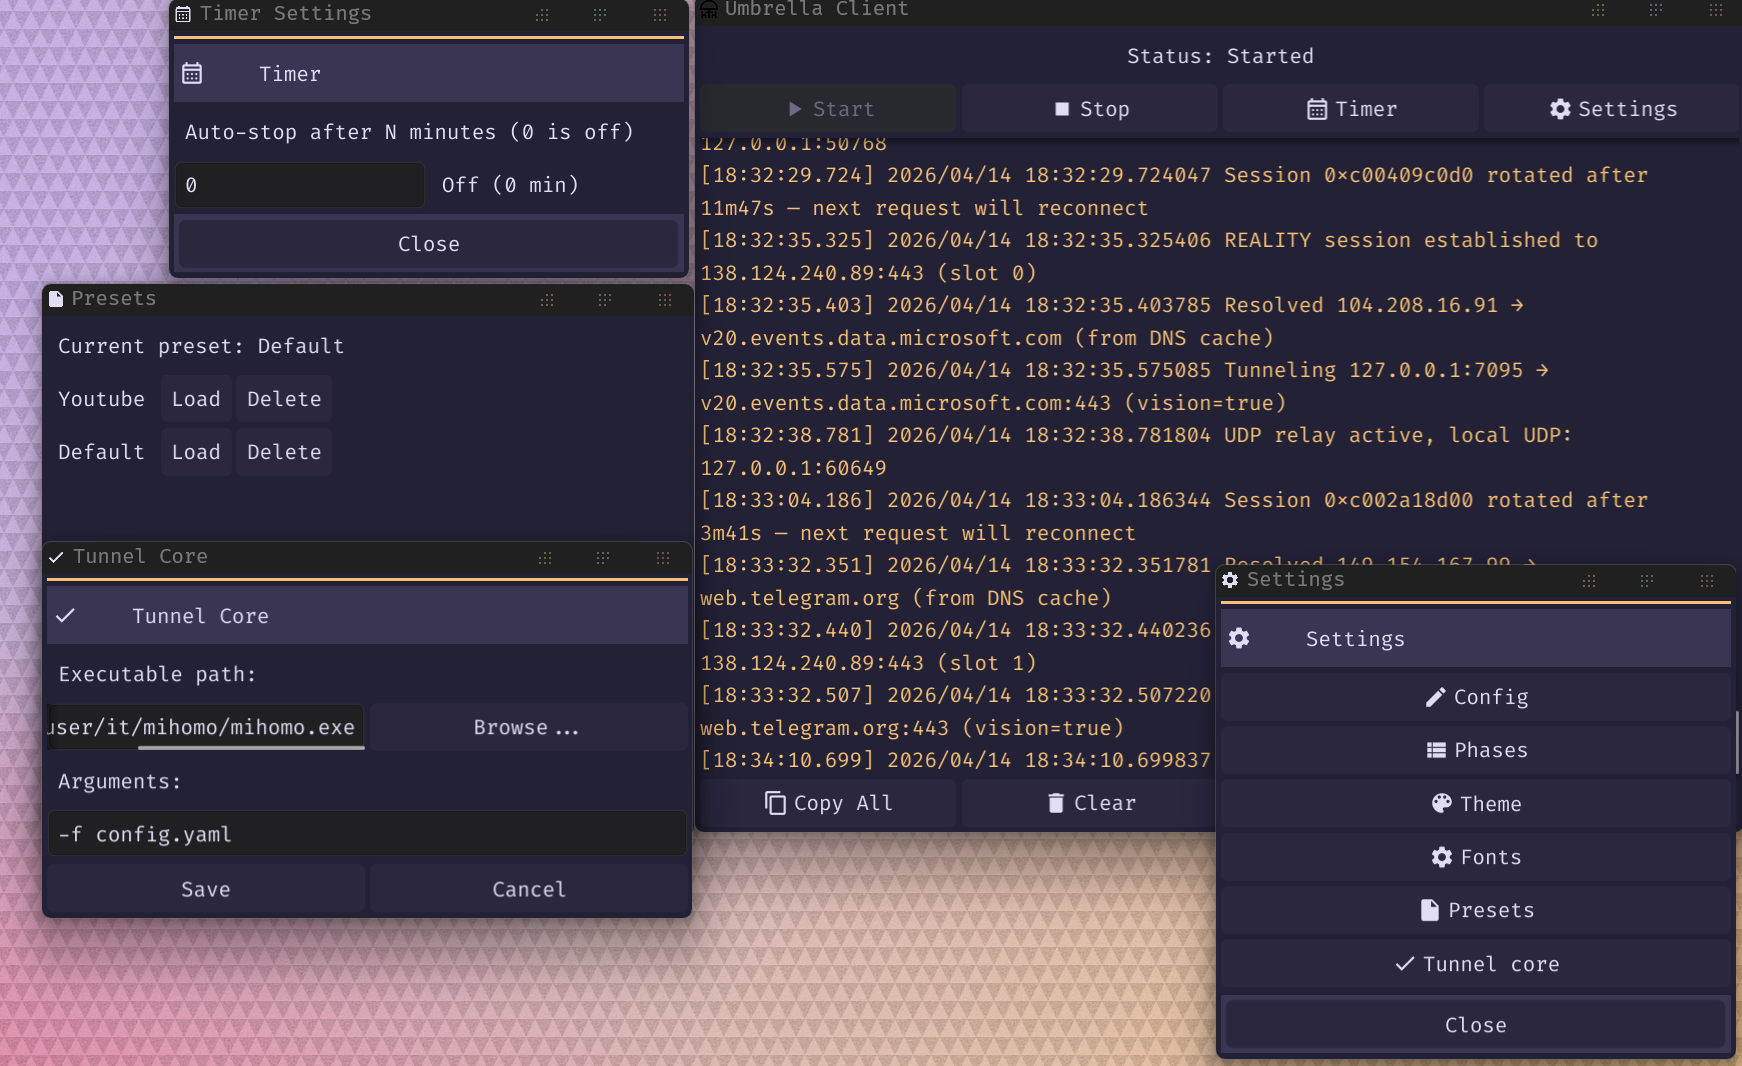
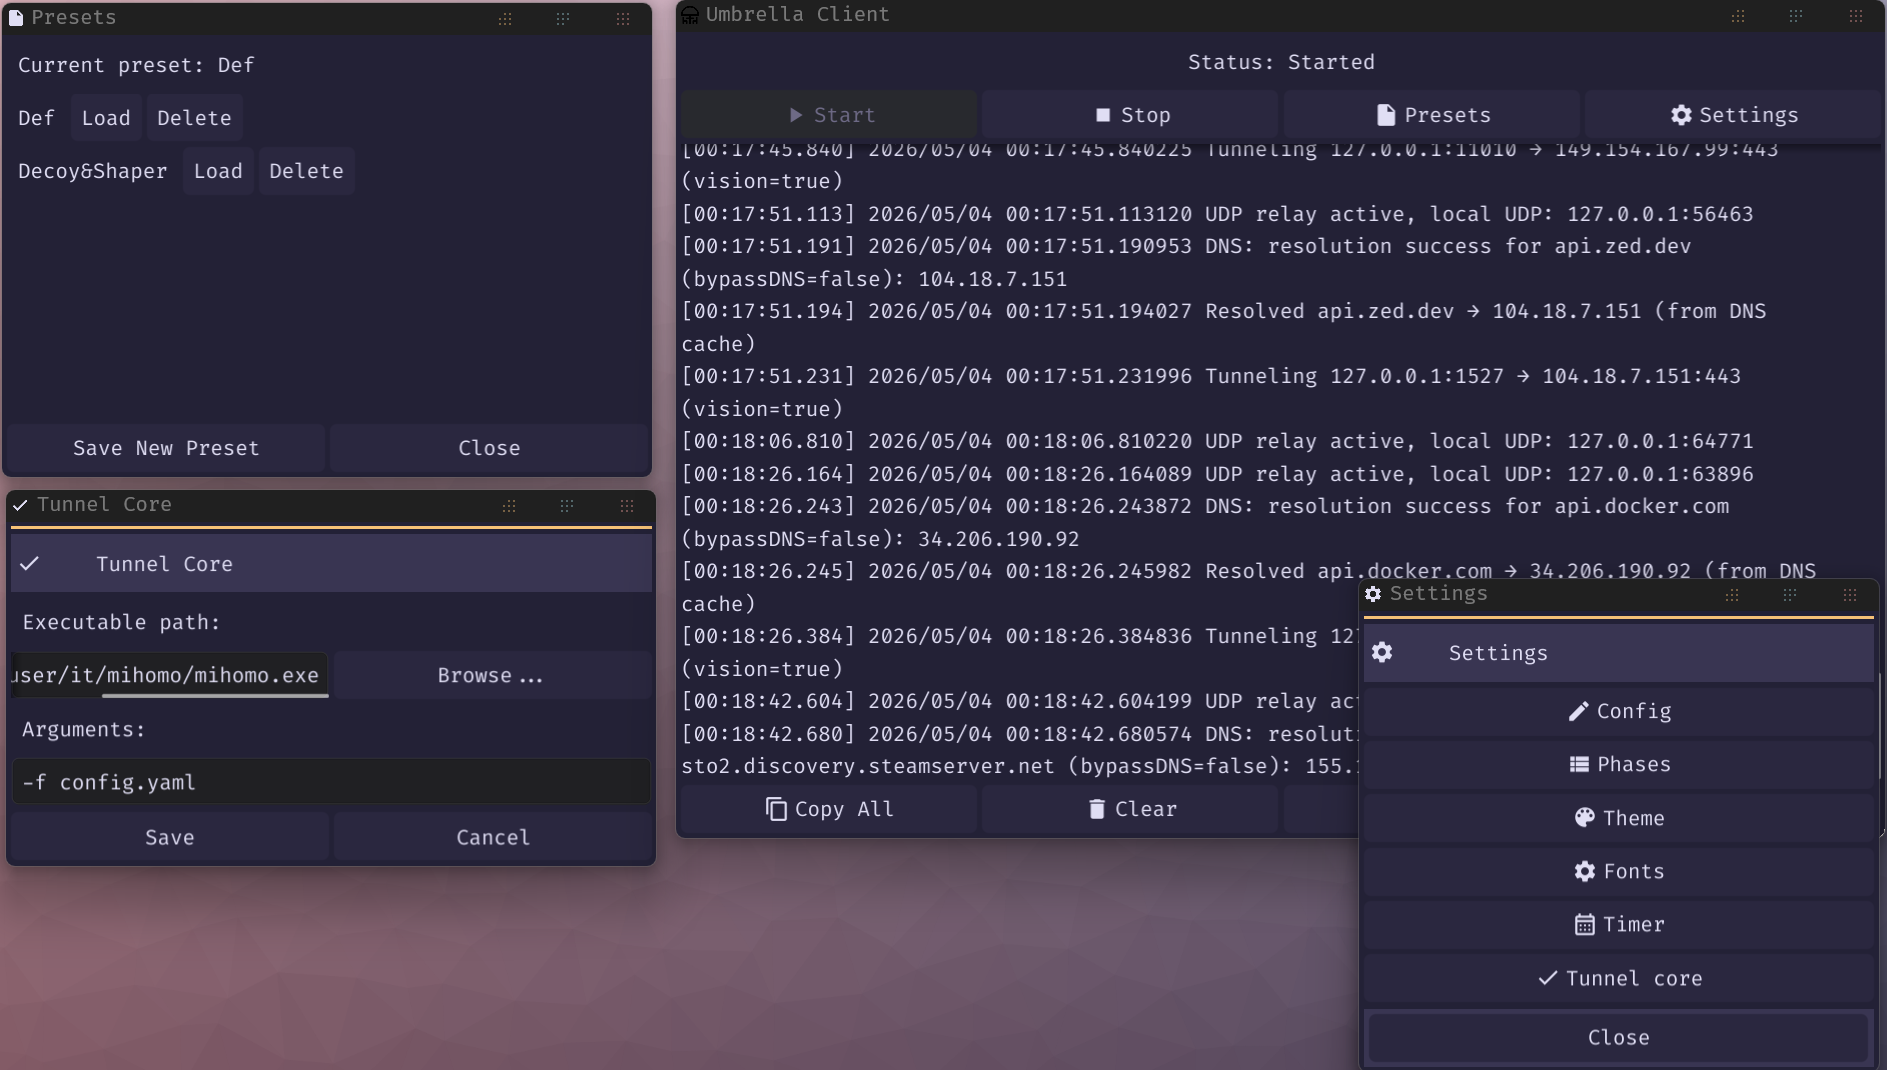
стили + таймаут: изменение стилей + уменьшение таймаута завершения работы

diff --git a/umbrella_client/internal/app/app.go b/umbrella_client/internal/app/app.go
@@ -301,8 +301,8 @@ func CreateAndRun() {
 
 				objs := []fyne.CanvasObject{}
 				for _, line := range lines {
-					col := ui.ColorToNRGBA(ui.CurrentTheme.Gold)
-					if strings.Contains(line, "[ERR]") || strings.Contains(line, "[ERR]") || strings.Contains(line, "[ERROR]") {
+					col := ui.ColorToNRGBA(ui.CurrentTheme.Text)
+					if strings.Contains(line, "[ERR]") || strings.Contains(line, "[ERROR]") {
 						col = ui.ColorToNRGBA(ui.CurrentTheme.Love)
 					}
 

diff --git a/umbrella_client/internal/client/main.go b/umbrella_client/internal/client/main.go
@@ -239,7 +239,7 @@ func Start(cfg *Config, ctx context.Context, appFilesDir string, dnsCache *stora
 			select {
 			case <-ch:
 				return nil
-			case <-time.After(10 * time.Second):
+			case <-time.After(5 * time.Second):
 				return nil
 			}
 		default:

diff --git a/umbrella_client/internal/ui/theme.go b/umbrella_client/internal/ui/theme.go
@@ -158,7 +158,7 @@ var (
 		Foam:          lipgloss.Color(moonFoam),
 		Iris:          lipgloss.Color(moonIris),
 		Highlight:     lipgloss.Color(moonHighlight),
-		HighlightHigh: lipgloss.Color(moonGold),
+		HighlightHigh: lipgloss.Color(moonLove),
 	}
 
 	CatppuccinLatte = Theme{